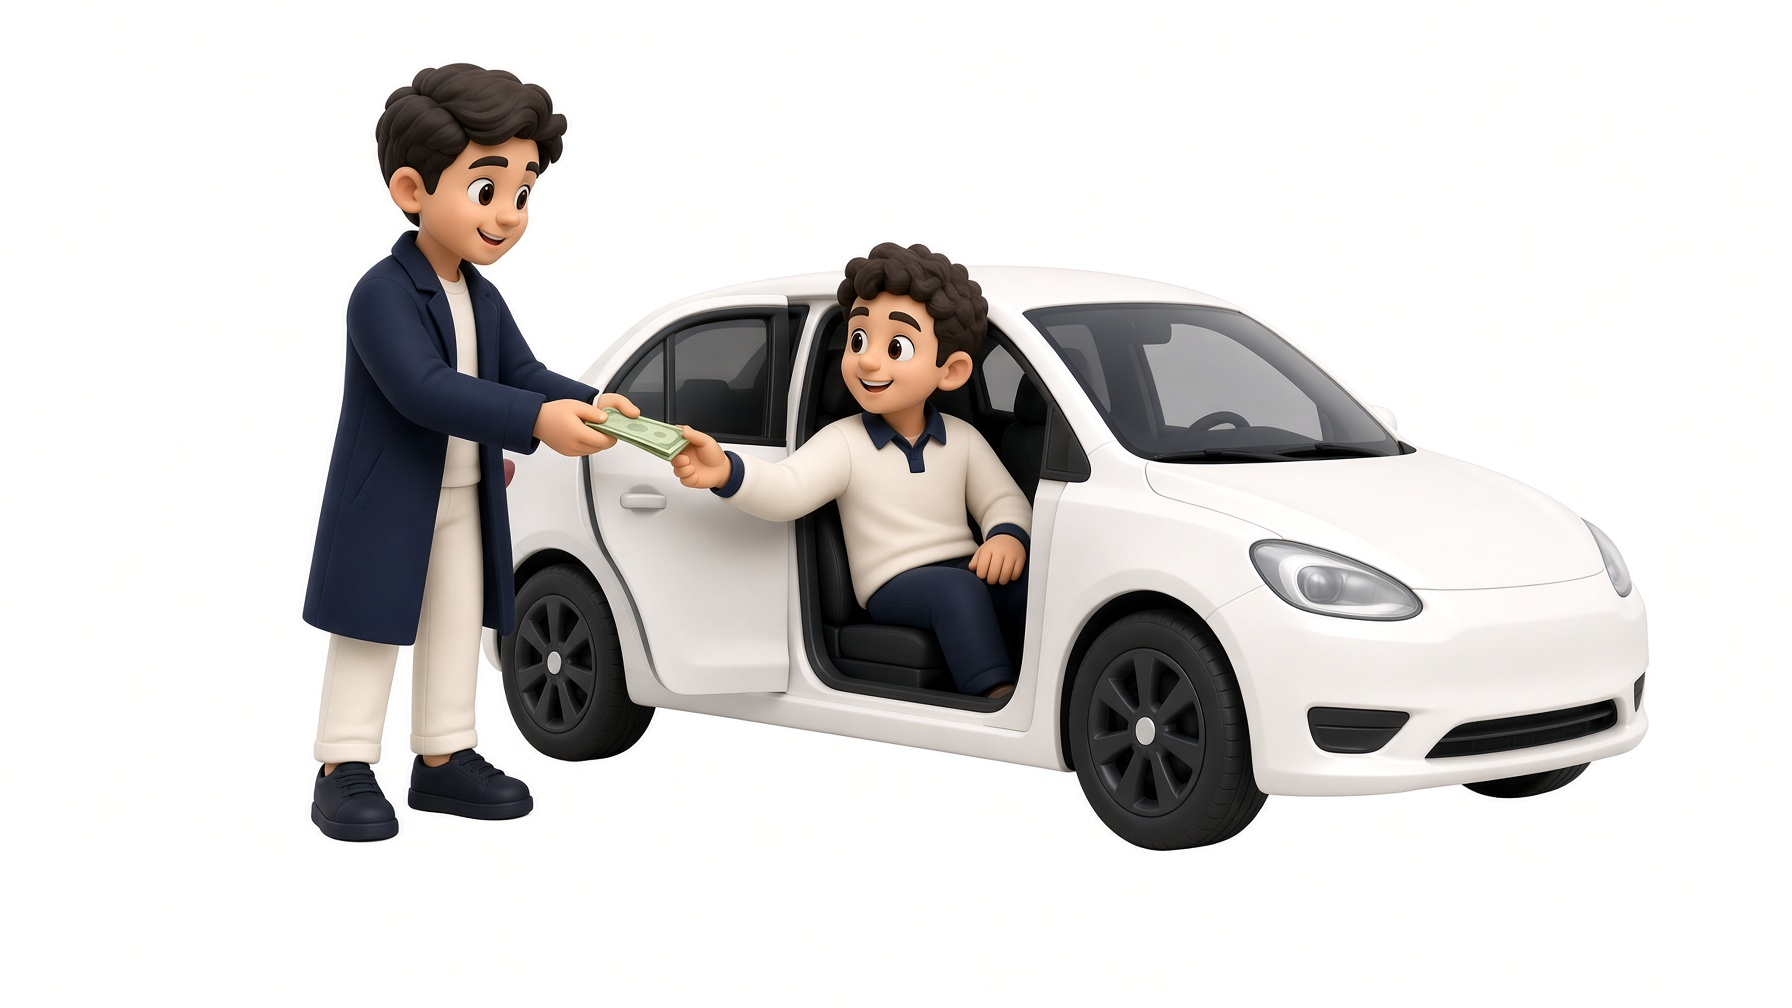
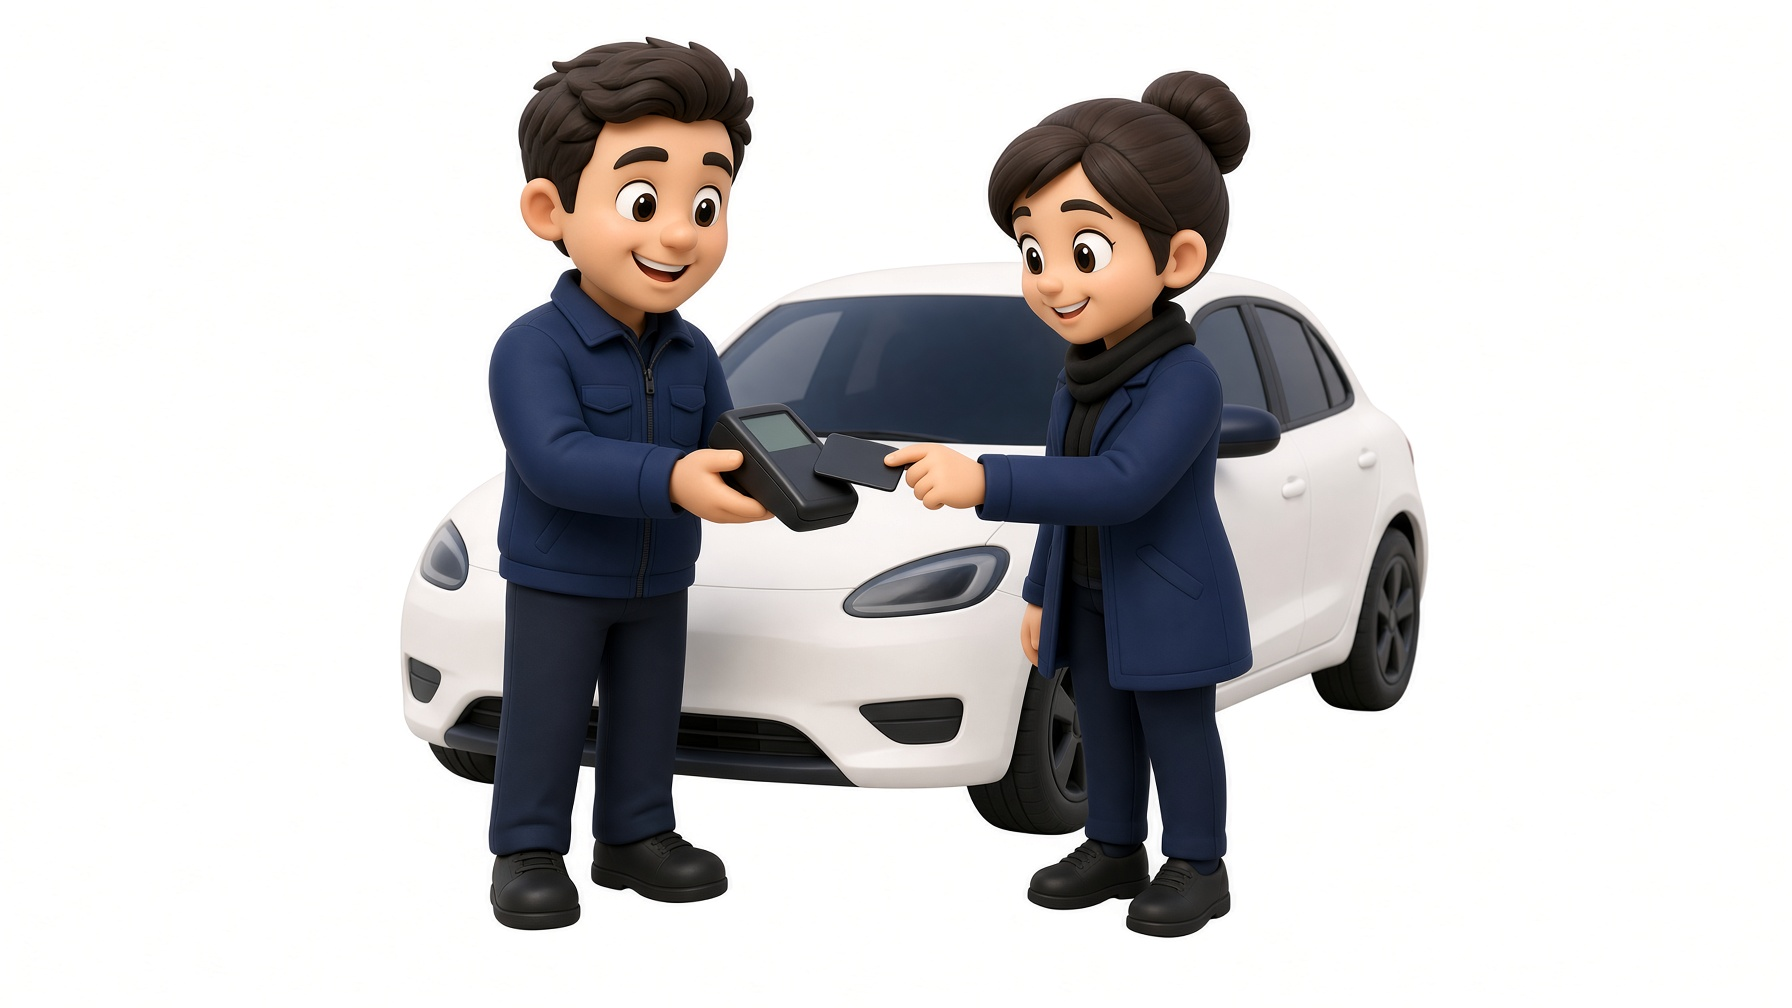
Show terminal payment art and a short caption on Wallet

diff --git a/lib/features/rider/my wallet/wallet.dart b/lib/features/rider/my wallet/wallet.dart
@@ -283,7 +283,23 @@ class _WalletHomeState extends State<WalletHome> {
                   fit: BoxFit.contain,
                 ),
               ),
-              const SizedBox(height: 8),
+              const SizedBox(height: 6),
+              Center(
+                child: Text(
+                  'Pay the driver on the terminal',
+                  textAlign: TextAlign.center,
+                  style: _style(13.5, weight: FontWeight.w600),
+                ),
+              ),
+              const SizedBox(height: 3),
+              Center(
+                child: Text(
+                  'Tap card, Swish or wallet when you arrive.',
+                  textAlign: TextAlign.center,
+                  style: _style(11.5, color: _muted),
+                ),
+              ),
+              const SizedBox(height: 16),
               Container(
                 width: double.infinity,
                 padding: const EdgeInsets.fromLTRB(22, 22, 22, 20),
